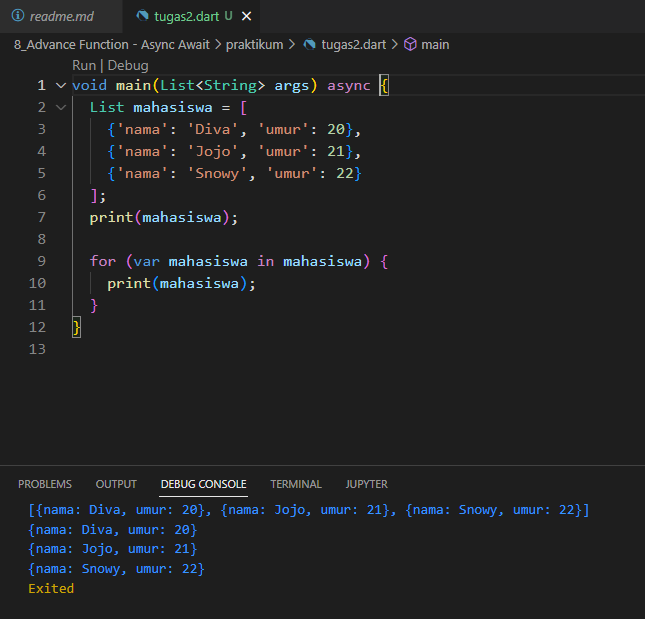
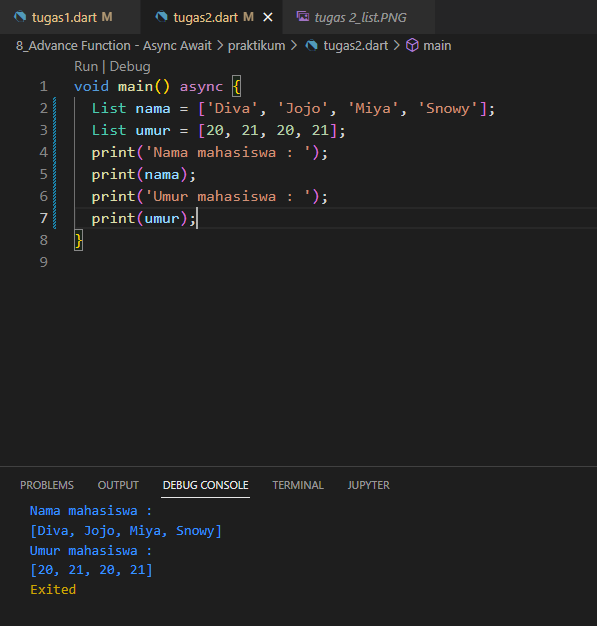
-update tugas 1-

diff --git a/8_Advance Function - Async Await/praktikum/tugas2.dart b/8_Advance Function - Async Await/praktikum/tugas2.dart
@@ -1,9 +1,12 @@
 void main() async {
-  List mahasiswa = [
-    {'name': 'Diva', 'age': 20},
-    {'name': 'Snowy', 'age': 21},
-  ];
-  print(mahasiswa);
+  List nama = ['Diva', 'Jojo', 'Miya', 'Snowy'];
+  List umur = [20, 21, 20, 21];
+  print('Nama mahasiswa : ');
+  print(nama);
+  print('Umur mahasiswa : ');
+  print(umur);
 
-  Map<String, dynamic> map1 = {'name': 'age'};
+  print('Daftar Mahasiswa : ');
+  Map<String, dynamic> data = {'nama': 'Diva', 'umur': 20};
+  print(data);
 }

diff --git a/8_Advance Function - Async Await/praktikum/tugas1.dart b/8_Advance Function - Async Await/praktikum/tugas1.dart
@@ -1,0 +1,19 @@
+Future<List> kali(a, b) {
+  var penggali = [];
+  return Future.delayed(Duration(seconds: 1), () {
+    for (var i in a) {
+      print(i * b);
+    }
+    return penggali;
+  });
+}
+
+void main() async {
+  var list = [1, 2, 3, 4, 5];
+  var dikalikan = 3;
+  print('Angka Bilangan : ');
+  print(list);
+  print('Hasil dari dikalikan dengan angka bilangan : ');
+  var data = await kali(list, dikalikan);
+  print(data);
+}
